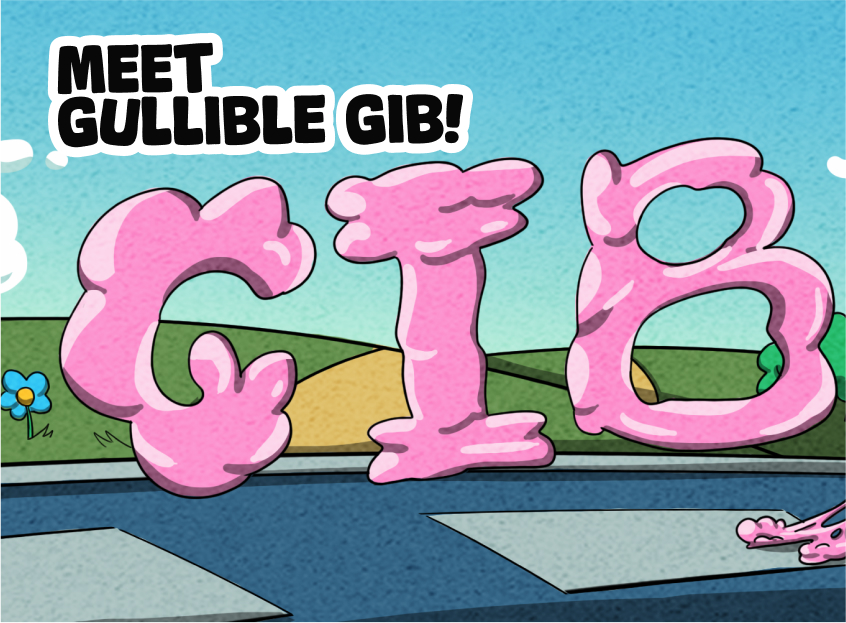
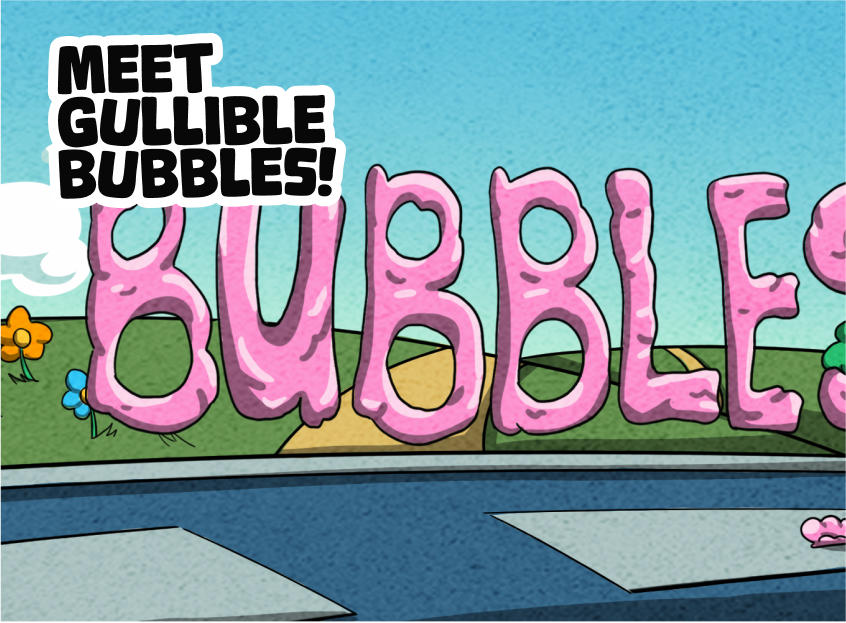
bubles

diff --git a/index.html b/index.html
@@ -9,9 +9,207 @@
 </head>
 
 <body>
-  <div id="app" style="color: black;">
+  <div id="app">
 
-    Site will be available soon
+    <div class="allMask">
+      <div class="free_img allMask_img">
+        <img src='/img/allMask.png' alt='decor' />
+      </div>
+    </div>
+
+    <div class="copied_wrapper copied_hide" id="copied">
+      <div class="copied ">
+        COPIED!
+      </div>
+    </div>
+
+    <div class="content">
+      <div class="hero">
+        <div class="header_wrapper">
+          <div class="header">
+            <div class="header_left">
+              <div class="header_logo">
+                $BUBBLES
+              </div>
+              <div class="header_links">
+                <a href="https://x.com/GullibleGib" target="_blank" class="header_link ml">
+                  <img src='/img/x.svg' alt='decor' />
+                </a>
+                <a href="https://t.me/Gib_On_Sol" target="_blank" class="header_link ml">
+                  <img src='/img/tg.svg' alt='decor' />
+                </a>
+                <a href="#" class="header_link ml">
+                  <img src='/img/dex.svg' alt='decor' />
+                </a>
+              </div>
+            </div>
+            <div class="header_buy ">
+              BUY TOKEN
+            </div>
+          </div>
+        </div>
+        <div class="hero_decor">
+          <div class="hero_decor_gib free_img">
+            <img src='/img/heroGib.jpg' alt='decor' />
+          </div>
+          <div class="hero_decor_gib hero_decor_gib_front free_img">
+            <!-- <img src='/img/heroGib.png' alt='decor' /> -->
+          </div>
+          <div class="hero_decor_img free_img">
+            <img src='/img/heroDecor.jpg' alt='decor' />
+          </div>
+        </div>
+        <div class="hero_cta_wrapper">
+          <a href="#" class="hero_cta cta">
+            DIVE INTO BUBBLES!
+          </a>
+        </div>
+      </div>
+      <div class="space">
+        <img src='/img/space.jpg' alt='decor' />
+      </div>
+      <div class="forest">
+        <div class="forest_trees free_img">
+          <img src='/img/trees.png' alt='decor' />
+        </div>
+        <div class="forest_header">
+          <div class="forest_header_inner">
+            BUBBLES is a very simple but happy fella.
+          </div>
+        </div>
+        <div class="forest_subheader">
+          <div class="forest_subheader_inner">
+            Always minding his own business but often finds himself in sticky situations - even when he's not working
+            with
+            glue! Simply put – he's a certified disaster.
+          </div>
+        </div>
+        <div class="forest_flowers free_img">
+          <img src='/img/flowers.png' alt='decor' />
+        </div>
+
+      </div>
+      <div class="bus">
+        <img src='/img/bus.jpg' alt='decor' />
+      </div>
+      <div class="media">
+        <div class="media_content">
+          <div class="media_header">
+            KEEP UP WITH BUBBLES IN HIS PURSUIT OF HAPPINESS...
+          </div>
+          <div class="media_links">
+            <a href="https://x.com/GullibleGib" target="_blank" class="media_link ml">
+              <img src='/img/xBlack.svg' alt='decor' />
+            </a>
+            <a href="https://t.me/Gib_On_Sol" target="_blank" class="media_link ml">
+              <img src='/img/tgBlack.svg' alt='decor' />
+            </a>
+            <a href="#" class="media_link ml">
+              <img src='/img/dexBlack.svg' alt='decor' />
+            </a>
+          </div>
+        </div>
+        <div class="media_decor">
+          <img src='/img/mediaDecor.png' alt='decor' />
+        </div>
+      </div>
+      <div class="tnt">
+        <img src='/img/tnt.jpg' alt='decor' />
+      </div>
+      <div class="hashtags">
+        <div class="hashtags_decor">
+          <div class="free_img hashtags_el hashtags_el_1 hashtags_el_l">
+            <div class="free_img">
+              <img src='/img/hashtag.svg' alt='decor' />
+            </div>
+            <div class="free_img hashtags_text">
+              #Save BUBBLES
+            </div>
+          </div>
+          <div class="free_img hashtags_el hashtags_el_2 hashtags_el_s">
+            <div class="free_img">
+              <img src='/img/hashtag.svg' alt='decor' />
+            </div>
+            <div class="free_img hashtags_text">
+              #Man
+              LikeBUBBLES
+            </div>
+          </div>
+          <div class="free_img hashtags_el hashtags_el_3 hashtags_el_s">
+            <div class="free_img">
+              <img src='/img/hashtag.svg' alt='decor' />
+            </div>
+            <div class="free_img hashtags_text">
+              #Free
+              MandemBUBBLES
+            </div>
+          </div>
+          <div class="free_img hashtags_el hashtags_el_4 hashtags_el_s">
+            <div class="free_img">
+              <img src='/img/hashtag.svg' alt='decor' />
+            </div>
+            <div class="free_img hashtags_text">
+              #BUBBLESType
+              Shit
+            </div>
+          </div>
+          <div class="free_img hashtags_el hashtags_el_5 hashtags_el_l">
+            <div class="free_img">
+              <img src='/img/hashtag.svg' alt='decor' />
+            </div>
+            <div class="free_img hashtags_text">
+              #Better
+              CallBUBBLES
+            </div>
+          </div>
+          <div class="free_img hashtags_el hashtags_el_6 hashtags_el_s">
+            <div class="free_img">
+              <img src='/img/hashtag.svg' alt='decor' />
+            </div>
+            <div class="free_img hashtags_text">
+              #BUBBLESOut
+            </div>
+          </div>
+        </div>
+        <div class="hashtags_cta_wrapper">
+          <div class="hashtags_cta cta" id="hashcopy">
+            COPY HASHTAGS
+          </div>
+        </div>
+      </div>
+      <div class="focus">
+        <img src='/img/focus.jpg' alt='decor' />
+      </div>
+      <div class="buy">
+        <div class="buy_decor_1 free_img">
+          <img src='/img/buyDecor1.png' alt='decor' />
+        </div>
+        <div class="buy_decor_2 free_img">
+          <img src='/img/buyDecor2.png' alt='decor' />
+        </div>
+        <div class="buy_content">
+          <div class="buy_ca">
+            CA:
+          </div>
+          <div class="buy_cta_wrapper">
+            <div id="ca" class="buy_cta cta">
+              COPY CA
+            </div>
+          </div>
+          <div class="buy_media">
+            <a href="https://x.com/GullibleGib" target="_blank" class="buy_media_el ml">
+              <img src='/img/xBlack.svg' alt='decor' />
+            </a>
+            <a href="https://t.me/Gib_On_Sol" target="_blank" class="buy_media_el ml">
+              <img src='/img/tgBlack.svg' alt='decor' />
+            </a>
+            <a href="#" class="buy_media_el ml">
+              <img src='/img/dexBlack.svg' alt='decor' />
+            </a>
+          </div>
+        </div>
+      </div>
+    </div>
 
   </div>
   <script type="module" src="/main.js"></script>

diff --git a/main.js b/main.js
@@ -1,7 +1,7 @@
 import './style.scss'
 
 document.getElementById('hashcopy').onclick = () => {
-    navigator.clipboard.writeText("#SaveGib #ManLikeGib #FreeMandemGib #GibTypeShit #BetterCallGib #GibOut")
+    navigator.clipboard.writeText("#SaveBUBBLES #ManLikeBUBBLES #FreeMandemBUBBLES #BUBBLESTypeShit #BetterCallBUBBLES #BUBBLESOut")
         .then(() => {
             document.getElementById('copied').classList.remove('copied_hide')
             setTimeout(() => {

diff --git a/hashtags.scss b/hashtags.scss
@@ -109,8 +109,8 @@
             }
 
             .hashtags_text {
-                font-size: 32px;
-                line-height: 32px;
+                font-size: 28px;
+                line-height: 28px;
 
                 @media(max-width: 650px) {
                     font-size: 24px;
